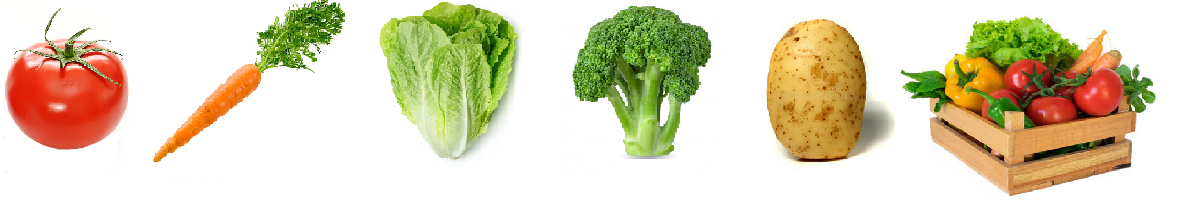
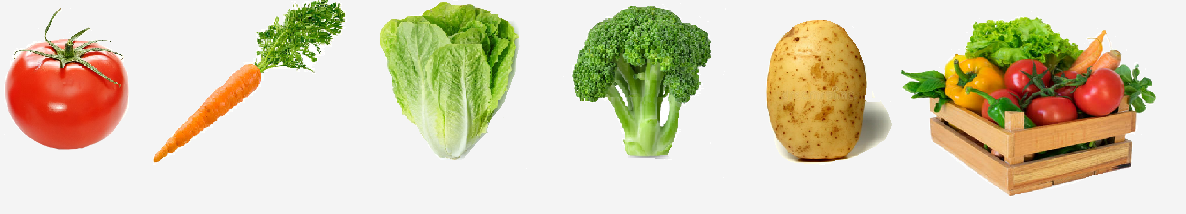
added styling

diff --git a/SEG3125-Module3-GroceryAlternative/index.html b/SEG3125-Module3-GroceryAlternative/index.html
@@ -6,7 +6,7 @@
 </head>
 
 <body>
-
+<div class="logo"><img src="logo.png" alt=LOGO width=110 height=110></div>
 	<div class="title">
 		Stardust Groceries Inc. ✩
 	</div>
@@ -14,7 +14,8 @@
 	<div class="quote">
 		Our deals are out of this world!
 	</div>
-	<div class="image"><img src="photo2.png" alt=WELCOME width=370 height=205></div>
+	<div class="image"><img src="photo2.png" alt=WELCOME width=55% height=305></div>
+
 
 
 <!-- Tab links, each one with an onclick event associated with it -->
@@ -53,7 +54,7 @@
 	 <p>Choose items to buy:</p>
 	 <div id="displayProduct"></div>
 	 <button id="addCart" type="button" class="block" onclick="selectedItems()">
-		Add selected items to cart.
+		Add to Cart
 	</button>
 </div>
 

diff --git a/SEG3125-Module3-GroceryAlternative/styles/style.css b/SEG3125-Module3-GroceryAlternative/styles/style.css
@@ -54,9 +54,27 @@
 
 .image{
   text-align: center;
+  opacity: 0.7;
+  min-width: 100%;
 }
 .bottomimage{
   text-align: center;
+}
+.logo{
+  float: left;
+}
+
+
+.block {
+  background-color: #263A7A;
+  color: white;
+  border-radius: 12px;
+  padding: 15px 32px;
+  transition-duration: 0.4s;
+}
+.block:hover{
+  background-color: white;
+  color: #263A7A;
 }
 
 p{
@@ -79,4 +97,5 @@ body{
 
   font-size: 130%;
   font-family: calibri;
+  background-color: #f4f4f4;
 }
